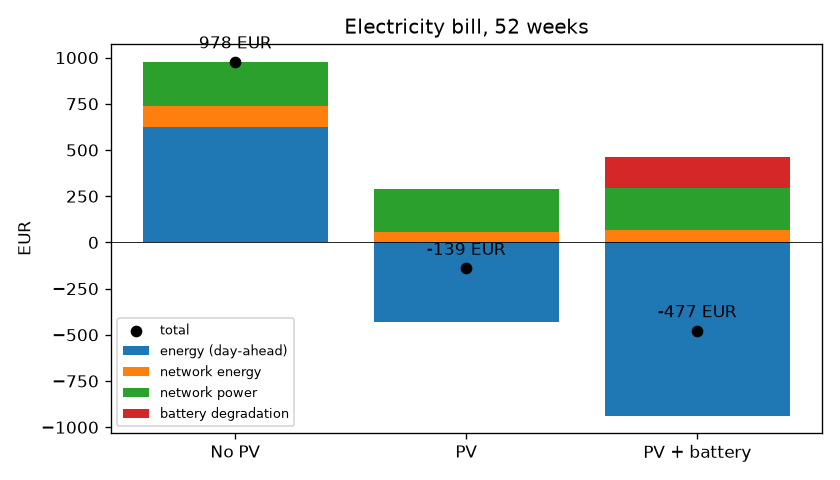
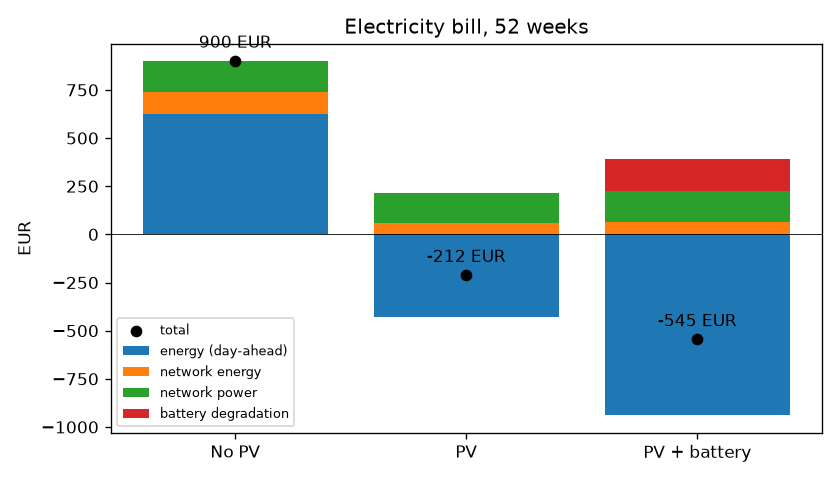
Updated peak power calculations for each month

diff --git a/battery_optimisation/simulation.py b/battery_optimisation/simulation.py
@@ -163,10 +163,12 @@ def calculate_bill(grid_power: pd.Series, price: pd.Series, block: pd.Series, en
     energy = ((grid_import - grid_export) * price / 1000 * dt).groupby(month).sum()
     network_energy = (grid_import * dt * block.map(energy_grid_prices)).groupby(month).sum()
 
-    monthly_peaks = grid_import.groupby(month).max().clip(lower=min_settlement_power)
+    # Power charge per tariff block: monthly peak in each block (at least min_settlement_power) times its price
+    block_peaks = grid_import.groupby([month, block]).max().clip(lower=min_settlement_power)
+    block_charge = block_peaks * block_peaks.index.get_level_values(1).map(block_power_prices)
     days_covered = grid_power.groupby(month).size() / 96
-    share_of_month = (days_covered / monthly_peaks.index.days_in_month).clip(upper=1)
-    network_power = monthly_peaks * block_power_prices[1] * share_of_month
+    share_of_month = (days_covered / days_covered.index.days_in_month).clip(upper=1)
+    network_power = block_charge.groupby(level=0).sum() * share_of_month
 
     bill = pd.DataFrame({
         'energy': energy,

diff --git a/README.md b/README.md
@@ -14,15 +14,15 @@ One year of measured household consumption (Jan 2025 – Jan 2026), a 15 kWp PV 
 | --- | ---: | ---: | ---: |
 | Energy at day-ahead prices | 626 € | −428 € | −938 € |
 | Network tariff – energy | 113 € | 57 € | 65 € |
-| Network tariff – power | 239 € | 233 € | 229 € |
+| Network tariff – power | 161 € | 160 € | 160 € |
 | Battery degradation | – | – | 168 € |
-| **Total** | **978 €** | **−139 €** | **−477 €** |
+| **Total** | **900 €** | **−212 €** | **−545 €** |
 
 The optimisation runs week by week, the bill is then calculated for every month (the power charge uses the monthly
 peak, at least the 5 kW settlement power) and summed over the year. A negative total means that the revenue from
 exported energy is larger than the costs.
 
-The battery saves **338 € per year** compared to PV alone, with about **336 full cycles**. Monthly battery savings
+The battery saves **334 € per year** compared to PV alone, with about **336 full cycles**. Monthly battery savings
 before degradation range from 4 € to 65 €; they are largest from spring to autumn and smaller in winter. The network
 power charge hardly changes, because the minimum settlement power is already above most of the household's peaks.
 
